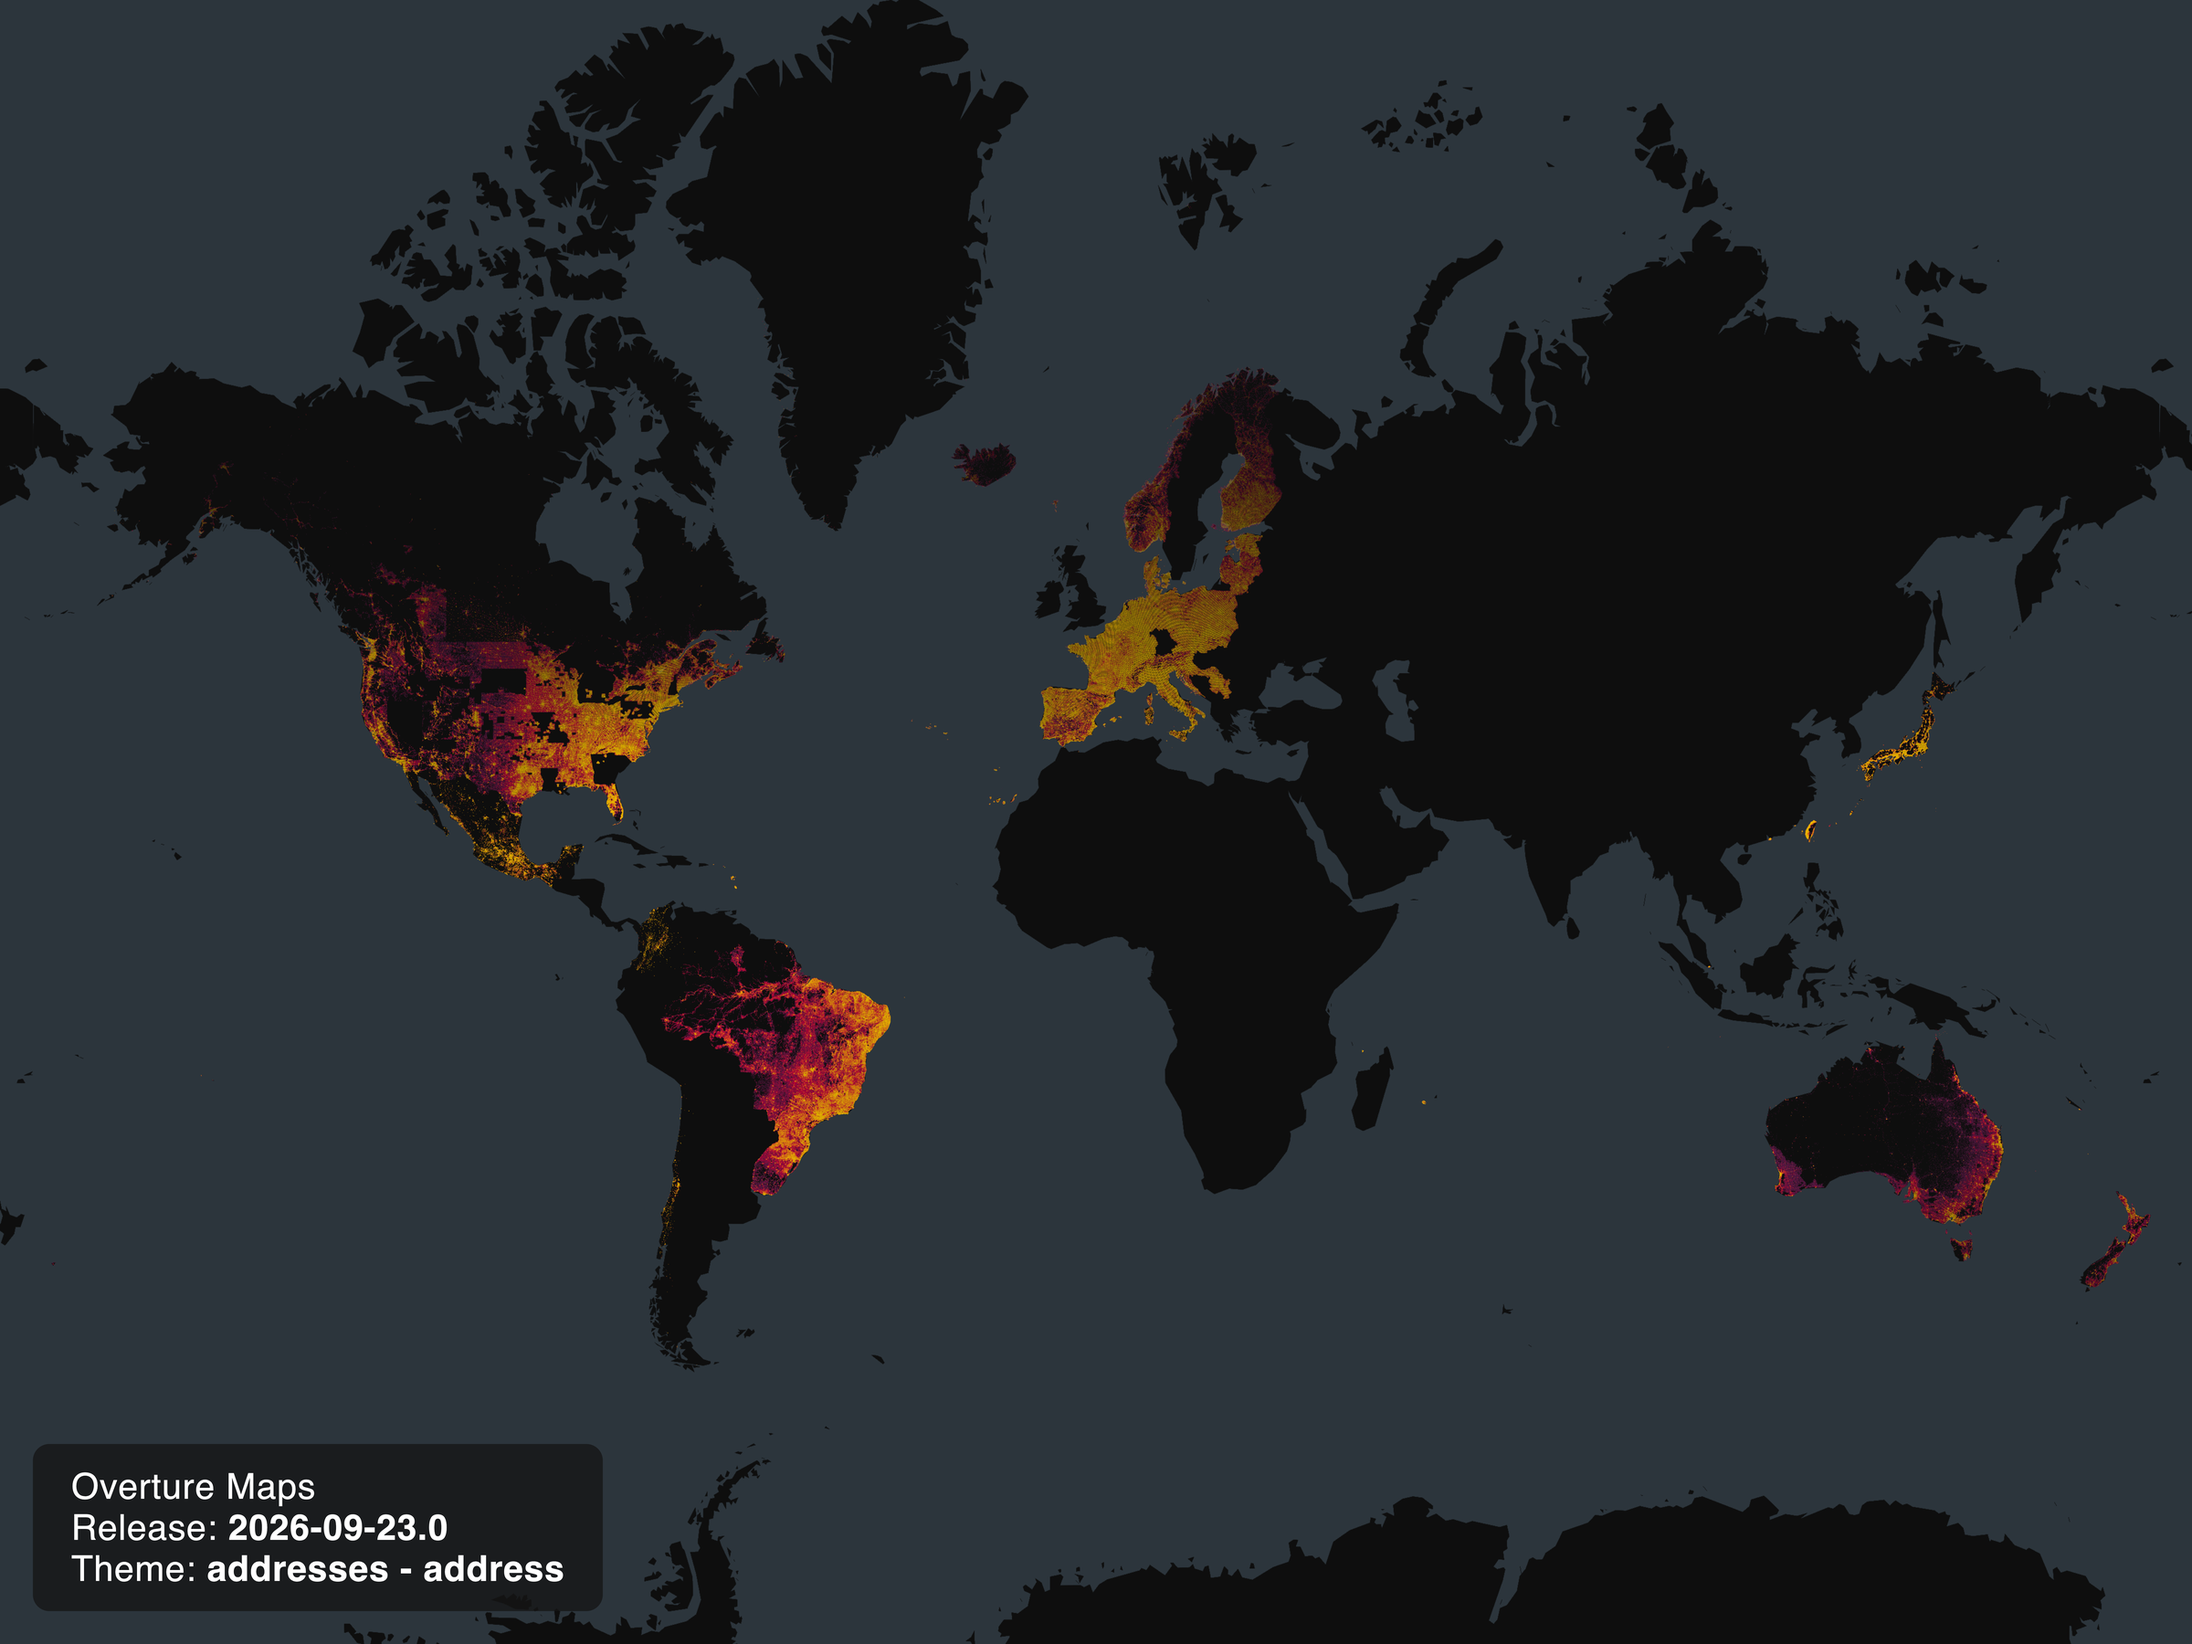
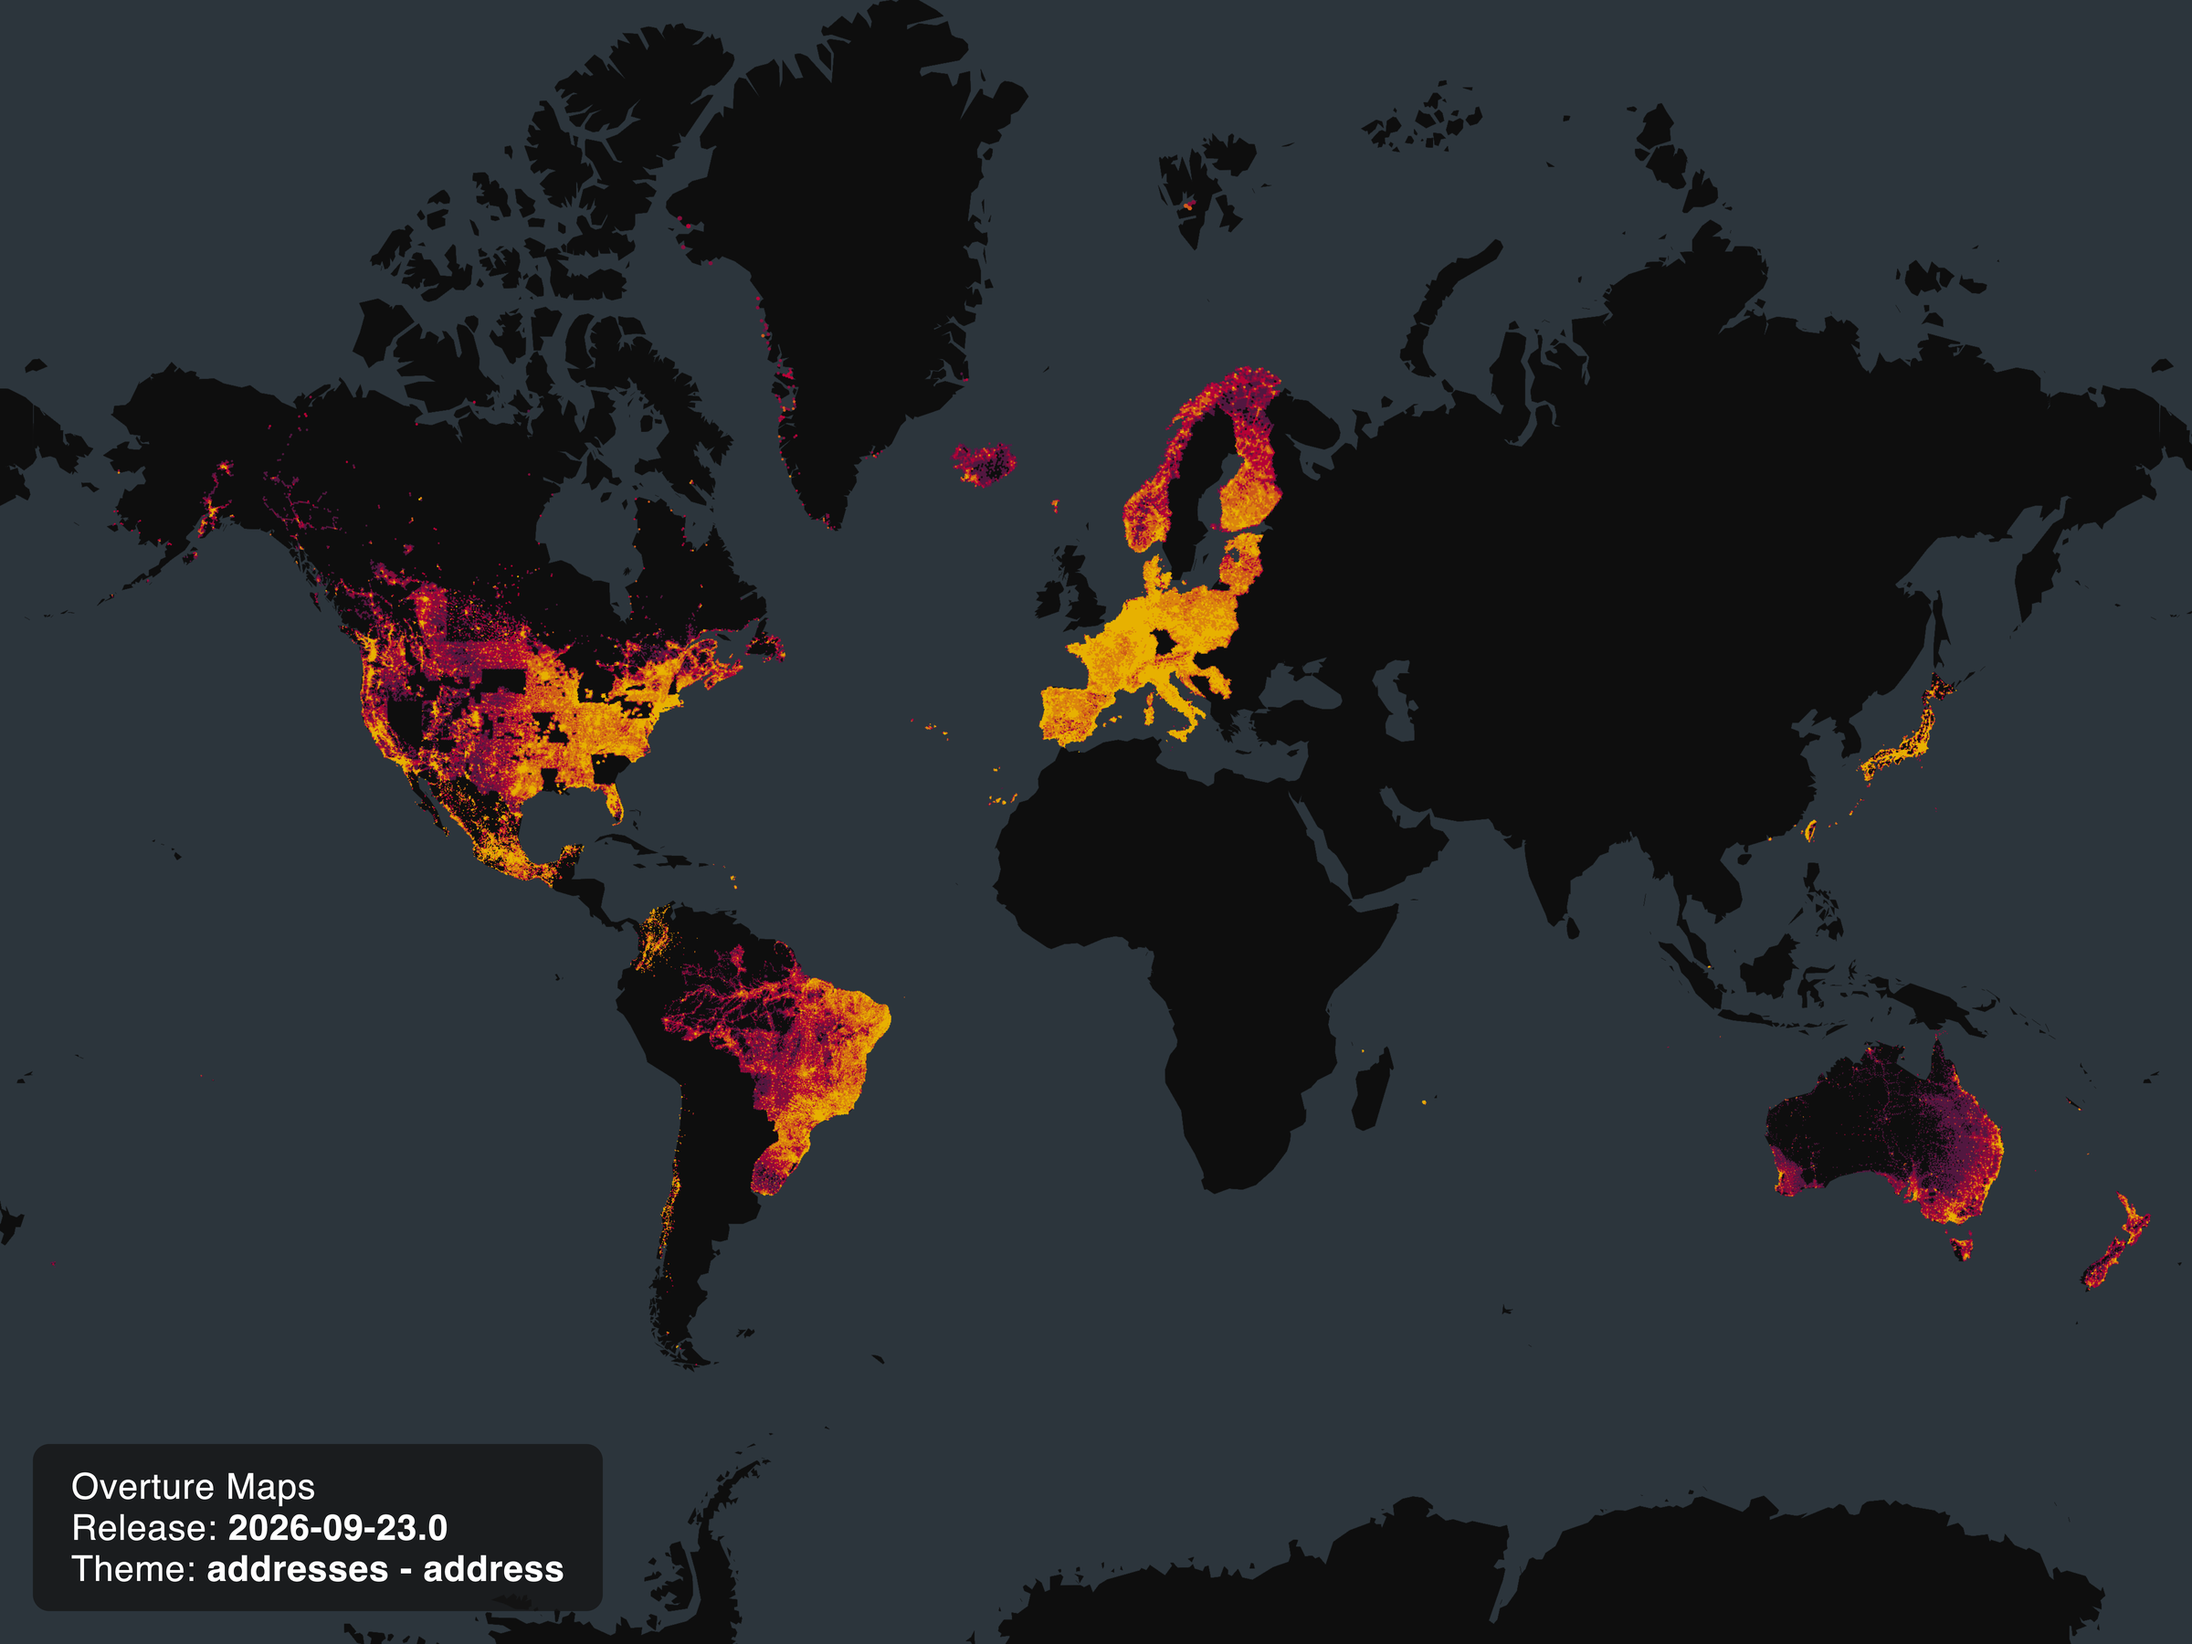
[ENHANCEMENT] Add patch info to September release notes, improvements (#537)
Fixes https://github.com/OvertureMaps/docs/issues/536

This pull request adds a patch info to the September release notes.

---------

diff --git a/docusaurus.config.js b/docusaurus.config.js
@@ -23,7 +23,7 @@ function getFromEnvironment(variableName, defaultValue) {
 }
 
 function getLatestOvertureRelease() {
-  const fallback = '2026-09-23.0';
+  const fallback = '2026-09-23.1';
   try {
     const { execSync } = require('child_process');
     const response = execSync('curl -s https://stac.overturemaps.org/catalog.json', {
